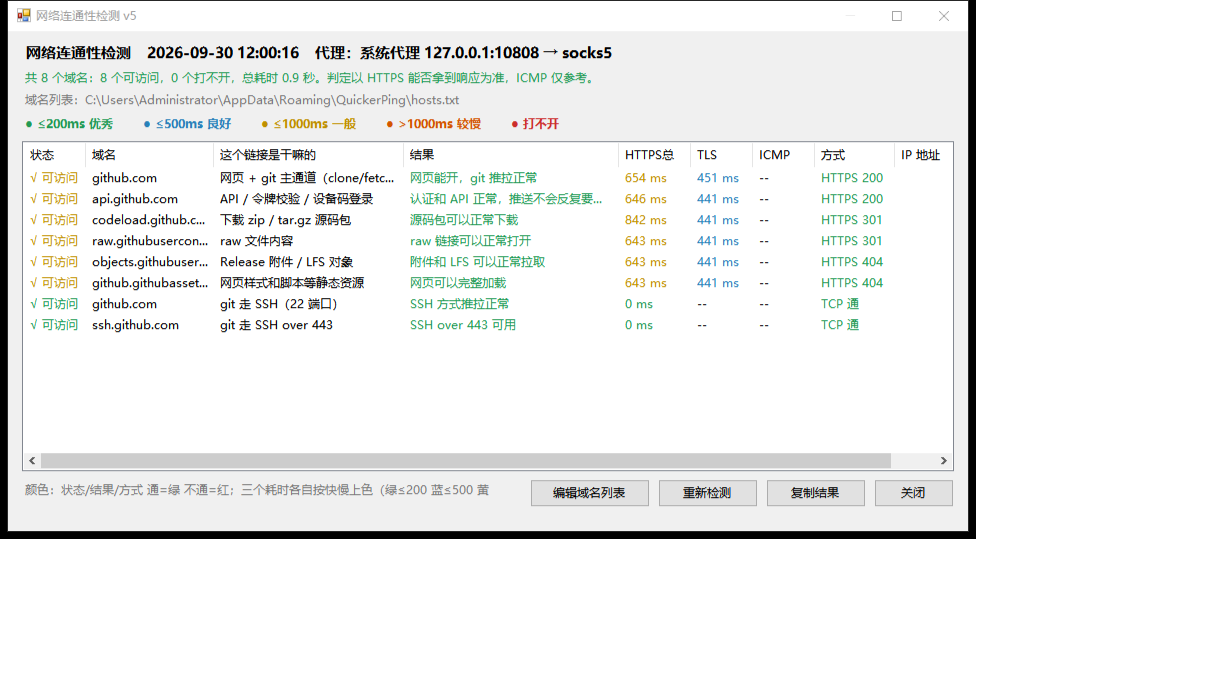
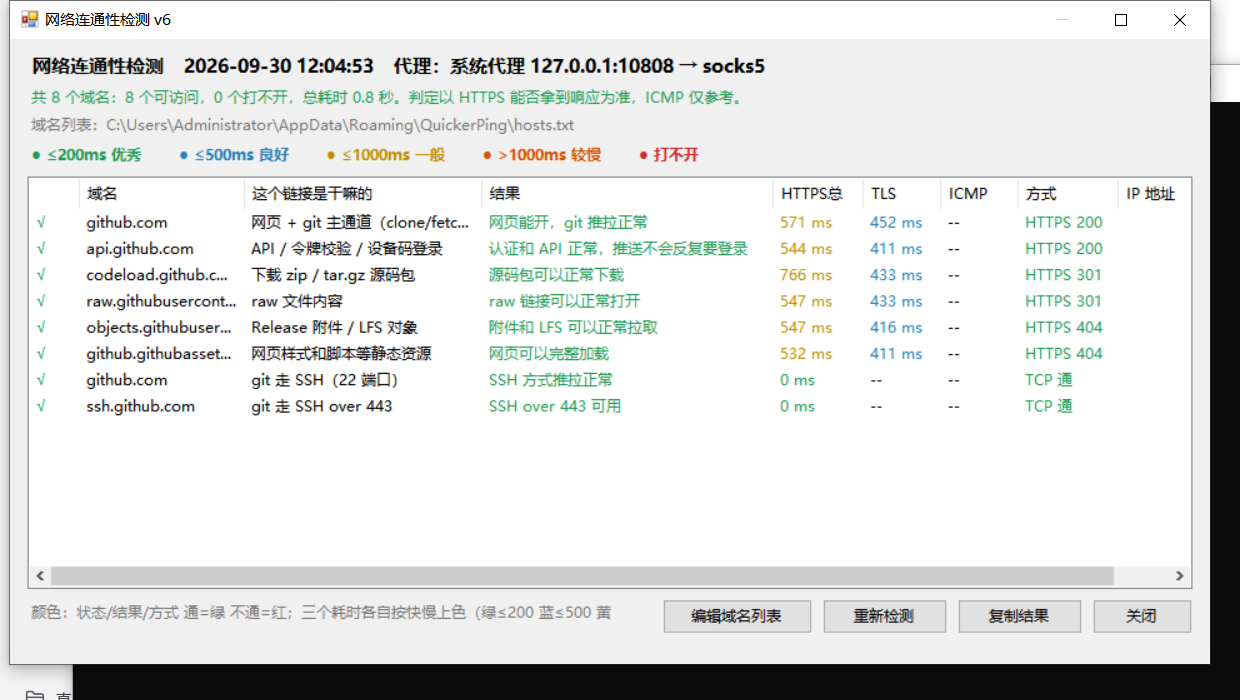
v6：表格改自绘单元格（修复状态列串色），状态列只显示 √/×

diff --git a/PingCheck.cs b/PingCheck.cs
@@ -823,7 +823,7 @@ public static class NetProbe
         foreach (Result r in rs) if (r != null && r.Ok) ok++;
 
         StringBuilder sb = new StringBuilder();
-        sb.AppendLine("网络连通性检测 v5    " + DateTime.Now.ToString("yyyy-MM-dd HH:mm:ss") + "    代理：" + proxyNote);
+        sb.AppendLine("网络连通性检测 v6    " + DateTime.Now.ToString("yyyy-MM-dd HH:mm:ss") + "    代理：" + proxyNote);
         sb.AppendLine("--------------------------------------------------------------");
         foreach (Result r in rs)
         {
@@ -852,13 +852,14 @@ public class ProbeForm : Form
     private ListView list;
     private Button btnCopy, btnRerun, btnEdit, btnClose;
     private ListViewItem[] rows;
+    private Color[][] cells;
     private long elapsedMs;
     public string ReportText = "";
 
     public ProbeForm(NetProbe.Config config)
     {
         cfg = config;
-        this.Text = "网络连通性检测 v5";
+        this.Text = "网络连通性检测 v6";
         this.ClientSize = new Size(960, 500);
         this.StartPosition = FormStartPosition.CenterScreen;
         this.Font = new Font("Microsoft YaHei UI", 9F);
@@ -903,15 +904,19 @@ public class ProbeForm : Form
         list.Location = new Point(14, 110);
         list.Size = new Size(932, 330);
         list.Anchor = AnchorStyles.Top | AnchorStyles.Bottom | AnchorStyles.Left | AnchorStyles.Right;
-        list.Columns.Add("状态", 62);
-        list.Columns.Add("域名", 128);
+        list.Columns.Add("", 40);
+        list.Columns.Add("域名", 132);
         list.Columns.Add("这个链接是干嘛的", 190);
-        list.Columns.Add("结果", 215);
+        list.Columns.Add("结果", 233);
         list.Columns.Add("HTTPS总", 72);
         list.Columns.Add("TLS", 62);
         list.Columns.Add("ICMP", 62);
         list.Columns.Add("方式", 80);
         list.Columns.Add("IP 地址", 105);
+        list.OwnerDraw = true;
+        list.DrawColumnHeader += List_DrawColumnHeader;
+        list.DrawItem += List_DrawItem;
+        list.DrawSubItem += List_DrawSubItem;
         list.DoubleClick += delegate(object s, EventArgs e)
         {
             if (list.SelectedItems.Count > 0)
@@ -969,6 +974,35 @@ public class ProbeForm : Form
         this.Controls.Add(btnClose);
     }
 
+    // ---------- 自绘表格：每个单元格用自己的颜色 ----------
+    private void List_DrawColumnHeader(object sender, DrawListViewColumnHeaderEventArgs e)
+    {
+        e.DrawDefault = true;
+    }
+
+    private void List_DrawItem(object sender, DrawListViewItemEventArgs e)
+    {
+        // 全部由 DrawSubItem 画，这里不画
+    }
+
+    private void List_DrawSubItem(object sender, DrawListViewSubItemEventArgs e)
+    {
+        if (e.ItemIndex < 0) return;
+
+        Color back = e.Item.Selected ? Color.FromArgb(51, 122, 183) : Color.White;
+        Color fore = Color.Black;
+        if (e.Item.Selected) fore = Color.White;
+        else if (cells != null && e.ItemIndex < cells.Length && cells[e.ItemIndex] != null && e.ColumnIndex < cells[e.ItemIndex].Length)
+            fore = cells[e.ItemIndex][e.ColumnIndex];
+
+        using (Brush b = new SolidBrush(back))
+            e.Graphics.FillRectangle(b, e.Bounds);
+
+        Rectangle r = new Rectangle(e.Bounds.X + 2, e.Bounds.Y, e.Bounds.Width - 4, e.Bounds.Height);
+        TextRenderer.DrawText(e.Graphics, e.SubItem.Text, list.Font, r, fore,
+            TextFormatFlags.Left | TextFormatFlags.VerticalCenter | TextFormatFlags.EndEllipsis | TextFormatFlags.NoPrefix);
+    }
+
     private int AddLegend(int x, int y, string text, Color color)
     {
         Label l = new Label();
@@ -998,6 +1032,12 @@ public class ProbeForm : Form
 
         list.Items.Clear();
         rows = new ListViewItem[cfg.Hosts.Count];
+        cells = new Color[cfg.Hosts.Count][];
+        for (int k = 0; k < cfg.Hosts.Count; k++)
+        {
+            cells[k] = new Color[list.Columns.Count];
+            for (int c = 0; c < cells[k].Length; c++) cells[k][c] = Color.Black;
+        }
         for (int i = 0; i < cfg.Hosts.Count; i++)
         {
             ListViewItem it = new ListViewItem(new string[] { "…", cfg.Hosts[i].Label, "", "", "", "", "", "", "" });
@@ -1044,7 +1084,8 @@ public class ProbeForm : Form
     {
         while (it.SubItems.Count <= index) it.SubItems.Add("");
         it.SubItems[index].Text = text;
-        it.SubItems[index].ForeColor = color;
+        if (cells != null && it.Index >= 0 && it.Index < cells.Length && index < cells[it.Index].Length)
+            cells[it.Index][index] = color;
     }
 
     private void FillRowUi(int i, NetProbe.Result r)
@@ -1052,26 +1093,19 @@ public class ProbeForm : Form
         if (i < 0 || i >= rows.Length) return;
 
         ListViewItem it = rows[i];
-        it.UseItemStyleForSubItems = false;
 
         Color okColor = Color.FromArgb(34, 153, 84);
         Color badColor = Color.FromArgb(203, 45, 45);
         Color plain = Color.Black;
 
-        // 状态：能连=绿，不能连=红
-        SetSub(it, 0, r.Ok ? "√ 可访问" : "× 打不开", r.Ok ? okColor : badColor);
-        // 这个链接是干嘛的：默认黑
-        SetSub(it, 2, r.Use, plain);
-        // 结果：能连=绿，不能连=红
-        SetSub(it, 3, r.Ok ? r.OkText : r.FailText, r.Ok ? okColor : badColor);
-        // 三个耗时：各自按自己的数值上色，没有值就是黑
+        SetSub(it, 0, r.Ok ? "√" : "×", r.Ok ? okColor : badColor);                  // 状态：只给符号
+        SetSub(it, 2, r.Use, plain);                                                // 这个链接是干嘛的
+        SetSub(it, 3, r.Ok ? r.OkText : r.FailText, r.Ok ? okColor : badColor);     // 结果
         SetSub(it, 4, r.Ok ? (r.HttpMs + " ms") : "--", NetProbe.MsColor(r.Ok ? r.HttpMs : -1));
         SetSub(it, 5, (r.TlsMs >= 0) ? (r.TlsMs + " ms") : "--", NetProbe.MsColor(r.TlsMs));
         SetSub(it, 6, (r.IcmpMs >= 0) ? (r.IcmpMs + " ms") : "--", NetProbe.MsColor(r.IcmpMs));
-        // 方式：成功=绿，失败=红
-        SetSub(it, 7, r.Mode, r.Ok ? okColor : badColor);
-        // IP：默认黑
-        SetSub(it, 8, r.Ip, plain);
+        SetSub(it, 7, r.Mode, r.Ok ? okColor : badColor);                            // 方式
+        SetSub(it, 8, r.Ip, plain);                                                  // IP
         it.ForeColor = NetProbe.TierColor(r);
     }
 

diff --git a/使用说明.md b/使用说明.md
@@ -1,8 +1,8 @@
-# Quicker 动作：网站连通性检测 v5（HTTPS 判定 · 自动代理 · 逐格配色）
+# Quicker 动作：网站连通性检测 v6（HTTPS 判定 · 自动代理 · 逐格配色）
 
 点一下动作 → 真去请求一遍 HTTPS，判断**能不能打开**、**要等多少 ms**、**这个链接是干嘛的**。
 
-> 版本看窗口标题：当前 **v5**。标题没版本号、或「域名」列出现 `tcp/xxx` 这种带前缀的名字 → 你导入的是旧动作。
+> 版本看窗口标题：当前 **v6**。标题没版本号、或「域名」列出现 `tcp/xxx` 这种带前缀的名字、或第一列又出现彩色文字 → 你导入的是旧动作。
 
 ## 文件
 
@@ -18,7 +18,7 @@
 
 | 列 | 含义 | 颜色规则 |
 | --- | --- | --- |
-| **状态** | 能不能打开 | 能连=**绿**，不能连=**红** |
+| **状态**（表头空） | 能不能打开，**只显示 `√` / `×`，不写文字** | 能连=**绿 √**，不能连=**红 ×** |
 | 域名 | 你配置的名字 | 黑 |
 | **这个链接是干嘛的** | 该端点的用途（GitHub 端点内置中文说明） | 黑 |
 | **结果** | 人话结论：通了会怎样 / 不通会怎样 | 通=**绿**，不通=**红** |
@@ -29,6 +29,7 @@
 | IP 地址 | 对端 IP | 黑 |
 
 - **不再整行同色**：每个单元格按自己的值判断颜色，没有判断值的默认黑色。
+- v6 起表格改成**自绘单元格**（不再依赖 ListView 自带的 subitem 着色），所以「状态」列不会再被耗时颜色串色，列的显示完全由色表决定。
 - 「连接」列已去掉（走代理时它只是"连本地代理"的耗时，参考价值低，TLS 那一列已经包含真实网络耗时）。
 - 失败色用的是**红**：因为"黄"已经被"一般(≤1000ms)"占用，再用黄会分不清"慢"和"不通"。想改成黄，把 `PingCheck.cs` 里 `badColor` 那一行的 `203,45,45` 改成 `191,143,0` 即可。
 
